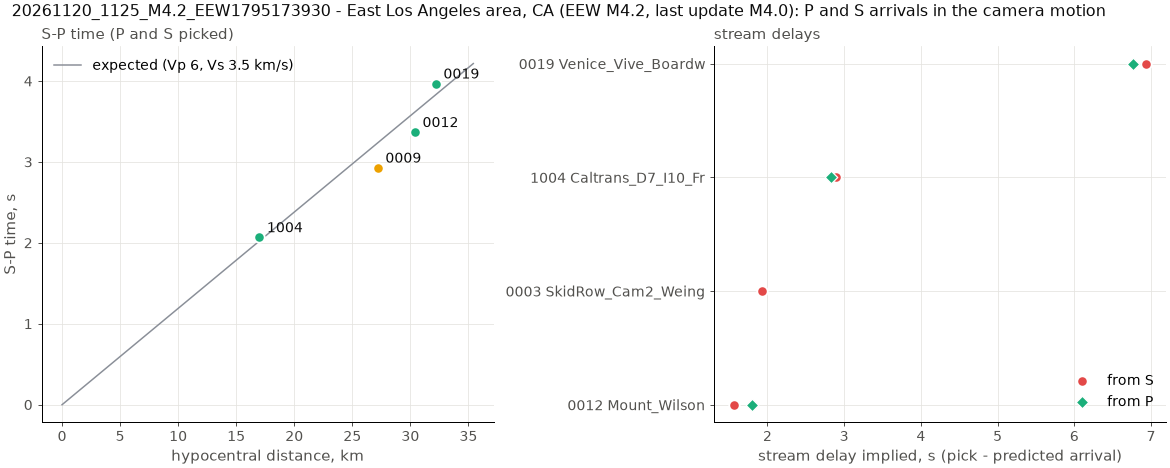
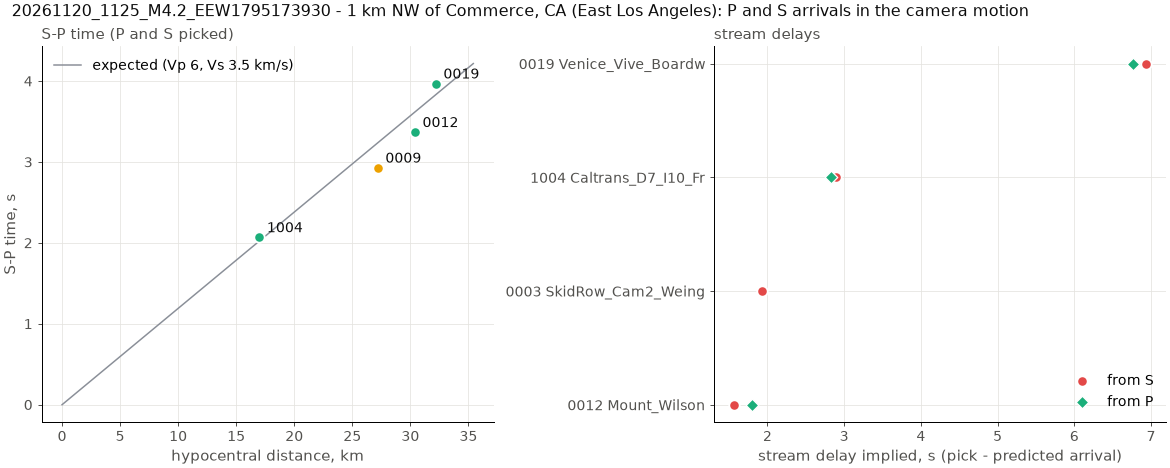
20261120_1125: reviewed magnitude Mw 3.94, link to the USGS event page; README: steps to add an event

Changed region(s): [[0.2769, 0.0, 0.9538, 0.0598]]

diff --git a/index.html b/index.html
@@ -21,7 +21,7 @@ footer { font-size:13px; color:var(--muted); margin-top:28px; padding-top:12px; 
 <p>Public and traffic camera videos reviewed after earthquakes with <a href="https://github.com/lijun99/eqcam">eqcam</a>:
 shaking, damage, fire, ground failure and outages seen by each camera. The findings are automated and unverified.</p>
 <div class="wrap"><table><thead><tr><th>Origin</th><th>Mag.</th><th>Event</th><th>Cameras</th><th>Findings</th><th></th></tr></thead>
-<tbody><tr><td>2026-11-20 11:25:35 UTC</td><td class="m">M4.2</td><td>East Los Angeles area, CA (EEW M4.2, last update M4.0)<div class="id">20261120_1125_M4.2_EEW1795173930</div></td><td class="n">6</td><td><span class="b" style="--c:#8a8f98" title="nothing notable">1</span><span class="b" style="--c:#e3b505" title="shaking effects only">5</span></td><td class="l"><a href="events/20261120_1125_M4.2_EEW1795173930/map.html">map</a> <a href="events/20261120_1125_M4.2_EEW1795173930/survey.csv">table</a></td></tr></tbody></table></div>
+<tbody><tr><td>2026-11-20 11:25:35 UTC</td><td class="m"><a href="https://earthquake.usgs.gov/earthquakes/eventpage/ci41364111" title="event page">M3.9</a></td><td>1 km NW of Commerce, CA (East Los Angeles)<div class="id">20261120_1125_M4.2_EEW1795173930</div></td><td class="n">6</td><td><span class="b" style="--c:#8a8f98" title="nothing notable">1</span><span class="b" style="--c:#e3b505" title="shaking effects only">5</span></td><td class="l"><a href="events/20261120_1125_M4.2_EEW1795173930/map.html">map</a> <a href="events/20261120_1125_M4.2_EEW1795173930/survey.csv">table</a></td></tr></tbody></table></div>
 <div class="legend"><span class="b" style="--c:#8a8f98"></span>nothing notable <span class="b" style="--c:#e3b505"></span>shaking effects only <span class="b" style="--c:#f08a24"></span>possible damage, fire or ground failure <span class="b" style="--c:#d62728"></span>clear damage, fire or ground failure <span class="b" style="--c:#4a6fa5"></span>not reviewed </div>
 <footer><b>Research prototype.</b> The findings are automated and unverified; this is not an official earthquake
 product and must not be used for emergency or safety decisions. Camera images belong to their owners and are shown

diff --git a/events/20261120_1125_M4.2_EEW1795173930/vibration.html b/events/20261120_1125_M4.2_EEW1795173930/vibration.html
@@ -1,6 +1,6 @@
 <!DOCTYPE html>
 <html><head><meta charset="utf-8"><meta name="viewport" content="width=device-width, initial-scale=1">
-<title>20261120_1125_M4.2_EEW1795173930 - East Los Angeles area, CA (EEW M4.2, last update M4.0): vibration</title>
+<title>20261120_1125_M4.2_EEW1795173930 - 1 km NW of Commerce, CA (East Los Angeles): vibration</title>
 <link rel="stylesheet" href="https://unpkg.com/leaflet@1.9.4/dist/leaflet.css">
 <script src="https://unpkg.com/leaflet@1.9.4/dist/leaflet.js"></script>
 <style>html,body,#map{height:100%;margin:0} .box{background:#fff;padding:6px 8px;font:12px sans-serif;color:#0b0b0b}
@@ -54,7 +54,7 @@ for (const p of points) {
     .bindPopup(p.popup, popupOptions(480)).bindTooltip(p.label).addTo(map);
   bounds.push([p.lat, p.lon]);
 }
-if (epi) { L.marker(epi).bindPopup("20261120_1125_M4.2_EEW1795173930 - East Los Angeles area, CA (EEW M4.2, last update M4.0): vibration").addTo(map); bounds.push(epi); }
+if (epi) { L.marker(epi).bindPopup("<div class=\"pop\"><b>M3.94 Mw, 1 km NW of Commerce, CA (East Los Angeles)</b><br>2026-11-20 11:25:35 UTC, depth 15.45 km<br>ShakeAlert first estimated M4.2 (hence the event id); the reviewed magnitude is Mw 3.94.<br><span style=\"color:#52514e\">20261120_1125_M4.2_EEW1795173930</span><br><a href=\"https://earthquake.usgs.gov/earthquakes/eventpage/ci41364111\" target=\"_blank\" rel=\"noopener\">Event page (latest magnitude and location)</a></div>").addTo(map); bounds.push(epi); }
 if (bounds.length > 1) map.fitBounds(bounds, {padding: [40, 40]}); else map.setView(bounds[0] || [34, -118], 10);
 // The National Map where it has coverage (the conterminous US, Alaska, Hawaii, Puerto Rico), CARTO elsewhere
 const c = map.getCenter();

diff --git a/events/20261120_1125_M4.2_EEW1795173930/arrivals.html b/events/20261120_1125_M4.2_EEW1795173930/arrivals.html
@@ -1,6 +1,6 @@
 <!DOCTYPE html>
 <html><head><meta charset="utf-8"><meta name="viewport" content="width=device-width, initial-scale=1">
-<title>20261120_1125_M4.2_EEW1795173930 - East Los Angeles area, CA (EEW M4.2, last update M4.0): arrivals</title>
+<title>20261120_1125_M4.2_EEW1795173930 - 1 km NW of Commerce, CA (East Los Angeles): arrivals</title>
 <link rel="stylesheet" href="https://unpkg.com/leaflet@1.9.4/dist/leaflet.css">
 <script src="https://unpkg.com/leaflet@1.9.4/dist/leaflet.js"></script>
 <style>html,body,#map{height:100%;margin:0} .box{background:#fff;padding:6px 8px;font:12px sans-serif;color:#0b0b0b}
@@ -54,7 +54,7 @@ for (const p of points) {
     .bindPopup(p.popup, popupOptions(480)).bindTooltip(p.label).addTo(map);
   bounds.push([p.lat, p.lon]);
 }
-if (epi) { L.marker(epi).bindPopup("20261120_1125_M4.2_EEW1795173930 - East Los Angeles area, CA (EEW M4.2, last update M4.0): arrivals").addTo(map); bounds.push(epi); }
+if (epi) { L.marker(epi).bindPopup("<div class=\"pop\"><b>M3.94 Mw, 1 km NW of Commerce, CA (East Los Angeles)</b><br>2026-11-20 11:25:35 UTC, depth 15.45 km<br>ShakeAlert first estimated M4.2 (hence the event id); the reviewed magnitude is Mw 3.94.<br><span style=\"color:#52514e\">20261120_1125_M4.2_EEW1795173930</span><br><a href=\"https://earthquake.usgs.gov/earthquakes/eventpage/ci41364111\" target=\"_blank\" rel=\"noopener\">Event page (latest magnitude and location)</a></div>").addTo(map); bounds.push(epi); }
 if (bounds.length > 1) map.fitBounds(bounds, {padding: [40, 40]}); else map.setView(bounds[0] || [34, -118], 10);
 // The National Map where it has coverage (the conterminous US, Alaska, Hawaii, Puerto Rico), CARTO elsewhere
 const c = map.getCenter();

diff --git a/events/20261120_1125_M4.2_EEW1795173930/map.html b/events/20261120_1125_M4.2_EEW1795173930/map.html
@@ -1,6 +1,6 @@
 <!DOCTYPE html>
 <html><head><meta charset="utf-8"><meta name="viewport" content="width=device-width, initial-scale=1">
-<title>20261120_1125_M4.2_EEW1795173930 - East Los Angeles area, CA (EEW M4.2, last update M4.0)</title>
+<title>20261120_1125_M4.2_EEW1795173930 - 1 km NW of Commerce, CA (East Los Angeles)</title>
 <link rel="stylesheet" href="https://unpkg.com/leaflet@1.9.4/dist/leaflet.css">
 <script src="https://unpkg.com/leaflet@1.9.4/dist/leaflet.js"></script>
 <style>html,body,#map{height:100%;margin:0} .legend{background:#fff;padding:6px 8px;font:12px sans-serif}
@@ -95,7 +95,7 @@ function update() {
     if (match && checked.length && map.hasLayer(p.marker)) p.marker.bringToFront();
   }
 }
-if (epi) { L.marker(epi).bindPopup("20261120_1125_M4.2_EEW1795173930 - East Los Angeles area, CA (EEW M4.2, last update M4.0)").addTo(map); bounds.push(epi); }
+if (epi) { L.marker(epi).bindPopup("<div class=\"pop\"><b>M3.94 Mw, 1 km NW of Commerce, CA (East Los Angeles)</b><br>2026-11-20 11:25:35 UTC, depth 15.45 km<br>ShakeAlert first estimated M4.2 (hence the event id); the reviewed magnitude is Mw 3.94.<br><span style=\"color:#52514e\">20261120_1125_M4.2_EEW1795173930</span><br><a href=\"https://earthquake.usgs.gov/earthquakes/eventpage/ci41364111\" target=\"_blank\" rel=\"noopener\">Event page (latest magnitude and location)</a></div>").addTo(map); bounds.push(epi); }
 if (bounds.length > 1) map.fitBounds(bounds, {padding: [40, 40]}); else map.setView(bounds[0] || [34, -118], 10);
 // The National Map where it has coverage (the conterminous US, Alaska, Hawaii, Puerto Rico), CARTO elsewhere
 const c = map.getCenter();

diff --git a/scripts/add_event.py b/scripts/add_event.py
@@ -173,7 +173,10 @@ def build_index():
         badges = ''.join(f'<span class="b" style="--c:{SEVERITY[k][1]}" title="{e(SEVERITY[k][0])}">{v}</span>'
                          for k, v in sorted(s['counts'].items(), key=lambda kv: -1 if kv[0] is None else kv[0]))
         mag = ev.get('magnitude')
-        rows.append(f'<tr><td>{e(when)} UTC</td><td class="m">{"M" + e(str(mag)) if mag is not None else ""}</td>'
+        mag = f'M{mag:.1f}' if isinstance(mag, (int, float)) else ''
+        if mag and ev.get('url'):                          # the event page: the latest magnitude and location
+            mag = f'<a href="{e(ev["url"])}" title="event page">{mag}</a>'
+        rows.append(f'<tr><td>{e(when)} UTC</td><td class="m">{mag}</td>'
                     f'<td>{e(ev.get("place") or "")}<div class="id">{e(s["id"])}</div></td><td class="n">{s["n"]}</td>'
                     f'<td>{badges}</td><td class="l"><a href="events/{e(s["id"])}/map.html">map</a> '
                     f'<a href="events/{e(s["id"])}/survey.csv">table</a></td></tr>')

diff --git a/README.md b/README.md
@@ -38,6 +38,10 @@ scripts/add_event.py            adds an eqcam run and rebuilds index.html
 
 The videos and the full-resolution frames are not stored here; the maps link the videos online (`video_url`).
 
+**Magnitudes.** An event id is set by the alert and keeps its first magnitude (e.g., `..._M4.2_...`); the
+magnitude shown (index, maps) is the catalog's when `event.json` has it, and links to the event page (`url`),
+where the latest magnitude and location are.
+
 **People are blurred** in the tiles: the review that finds the effects also returns a box around every person,
 and `eqcam report` blurs them; `add_event.py` refuses a run whose boxes were not applied. The boxes come from
 the model's review, so a person it missed stays visible: look over the tiles of a new event before pushing.
@@ -45,13 +49,27 @@ the model's review, so a person it missed stays visible: look over the tiles of 
 ## Add an event
 
 ```bash
-eqcam prepare ... --out runs/<event_id>     # then eqcam review and eqcam report
-python scripts/add_event.py ~/tools/src/eqcam/runs/<event_id>/run --inputs ~/tools/src/eqcam/runs/<event_id>
+# in eqcam: the survey, and optionally the vibration and arrivals (vibration.html, arrivals.html, vibration_data)
+eqcam prepare --cameras videos.csv --videos <folder> --event event.json --out <runs>/<event_id>/run
+eqcam review --out <runs>/<event_id>/run --backend claude
+eqcam report --out <runs>/<event_id>/run --vibration
+
+# here (Python 3, no other dependency)
+python scripts/add_event.py <runs>/<event_id>/run --inputs <runs>/<event_id>
 git add events index.html && git commit -m "Add <event_id>" && git push
 ```
 
-`--force` replaces an event already added; `--index-only` only rebuilds `index.html`. The script reduces local
-video paths to file names and refuses to publish files that still contain the home folder.
+`--inputs` is the folder with the run's `videos.csv`, whose `video_url` links are kept. Before publishing:
+
+1. **The magnitude.** Look the event up in a catalog (e.g., USGS): the alert's first magnitude is often revised.
+   Put the catalog's `magnitude` (and `magnitude_type`) in `event.json`, its event page in `url`, and, if the
+   event id carries the alert's magnitude, a `note`; then `eqcam report` again.
+2. **The people.** Look over every `cameras/<id>/tile.jpg` of the event for people the blurring missed.
+3. **The pages.** Open `map.html` (and `vibration.html`, `arrivals.html`) from `events/<event_id>/`.
+
+`--force` replaces an event already added (after a new report); `--index-only` only rebuilds `index.html`. The
+script reduces local video paths to file names and refuses to publish files that still contain the home folder,
+or tiles whose people boxes were not applied.
 
 ## Publish
 
